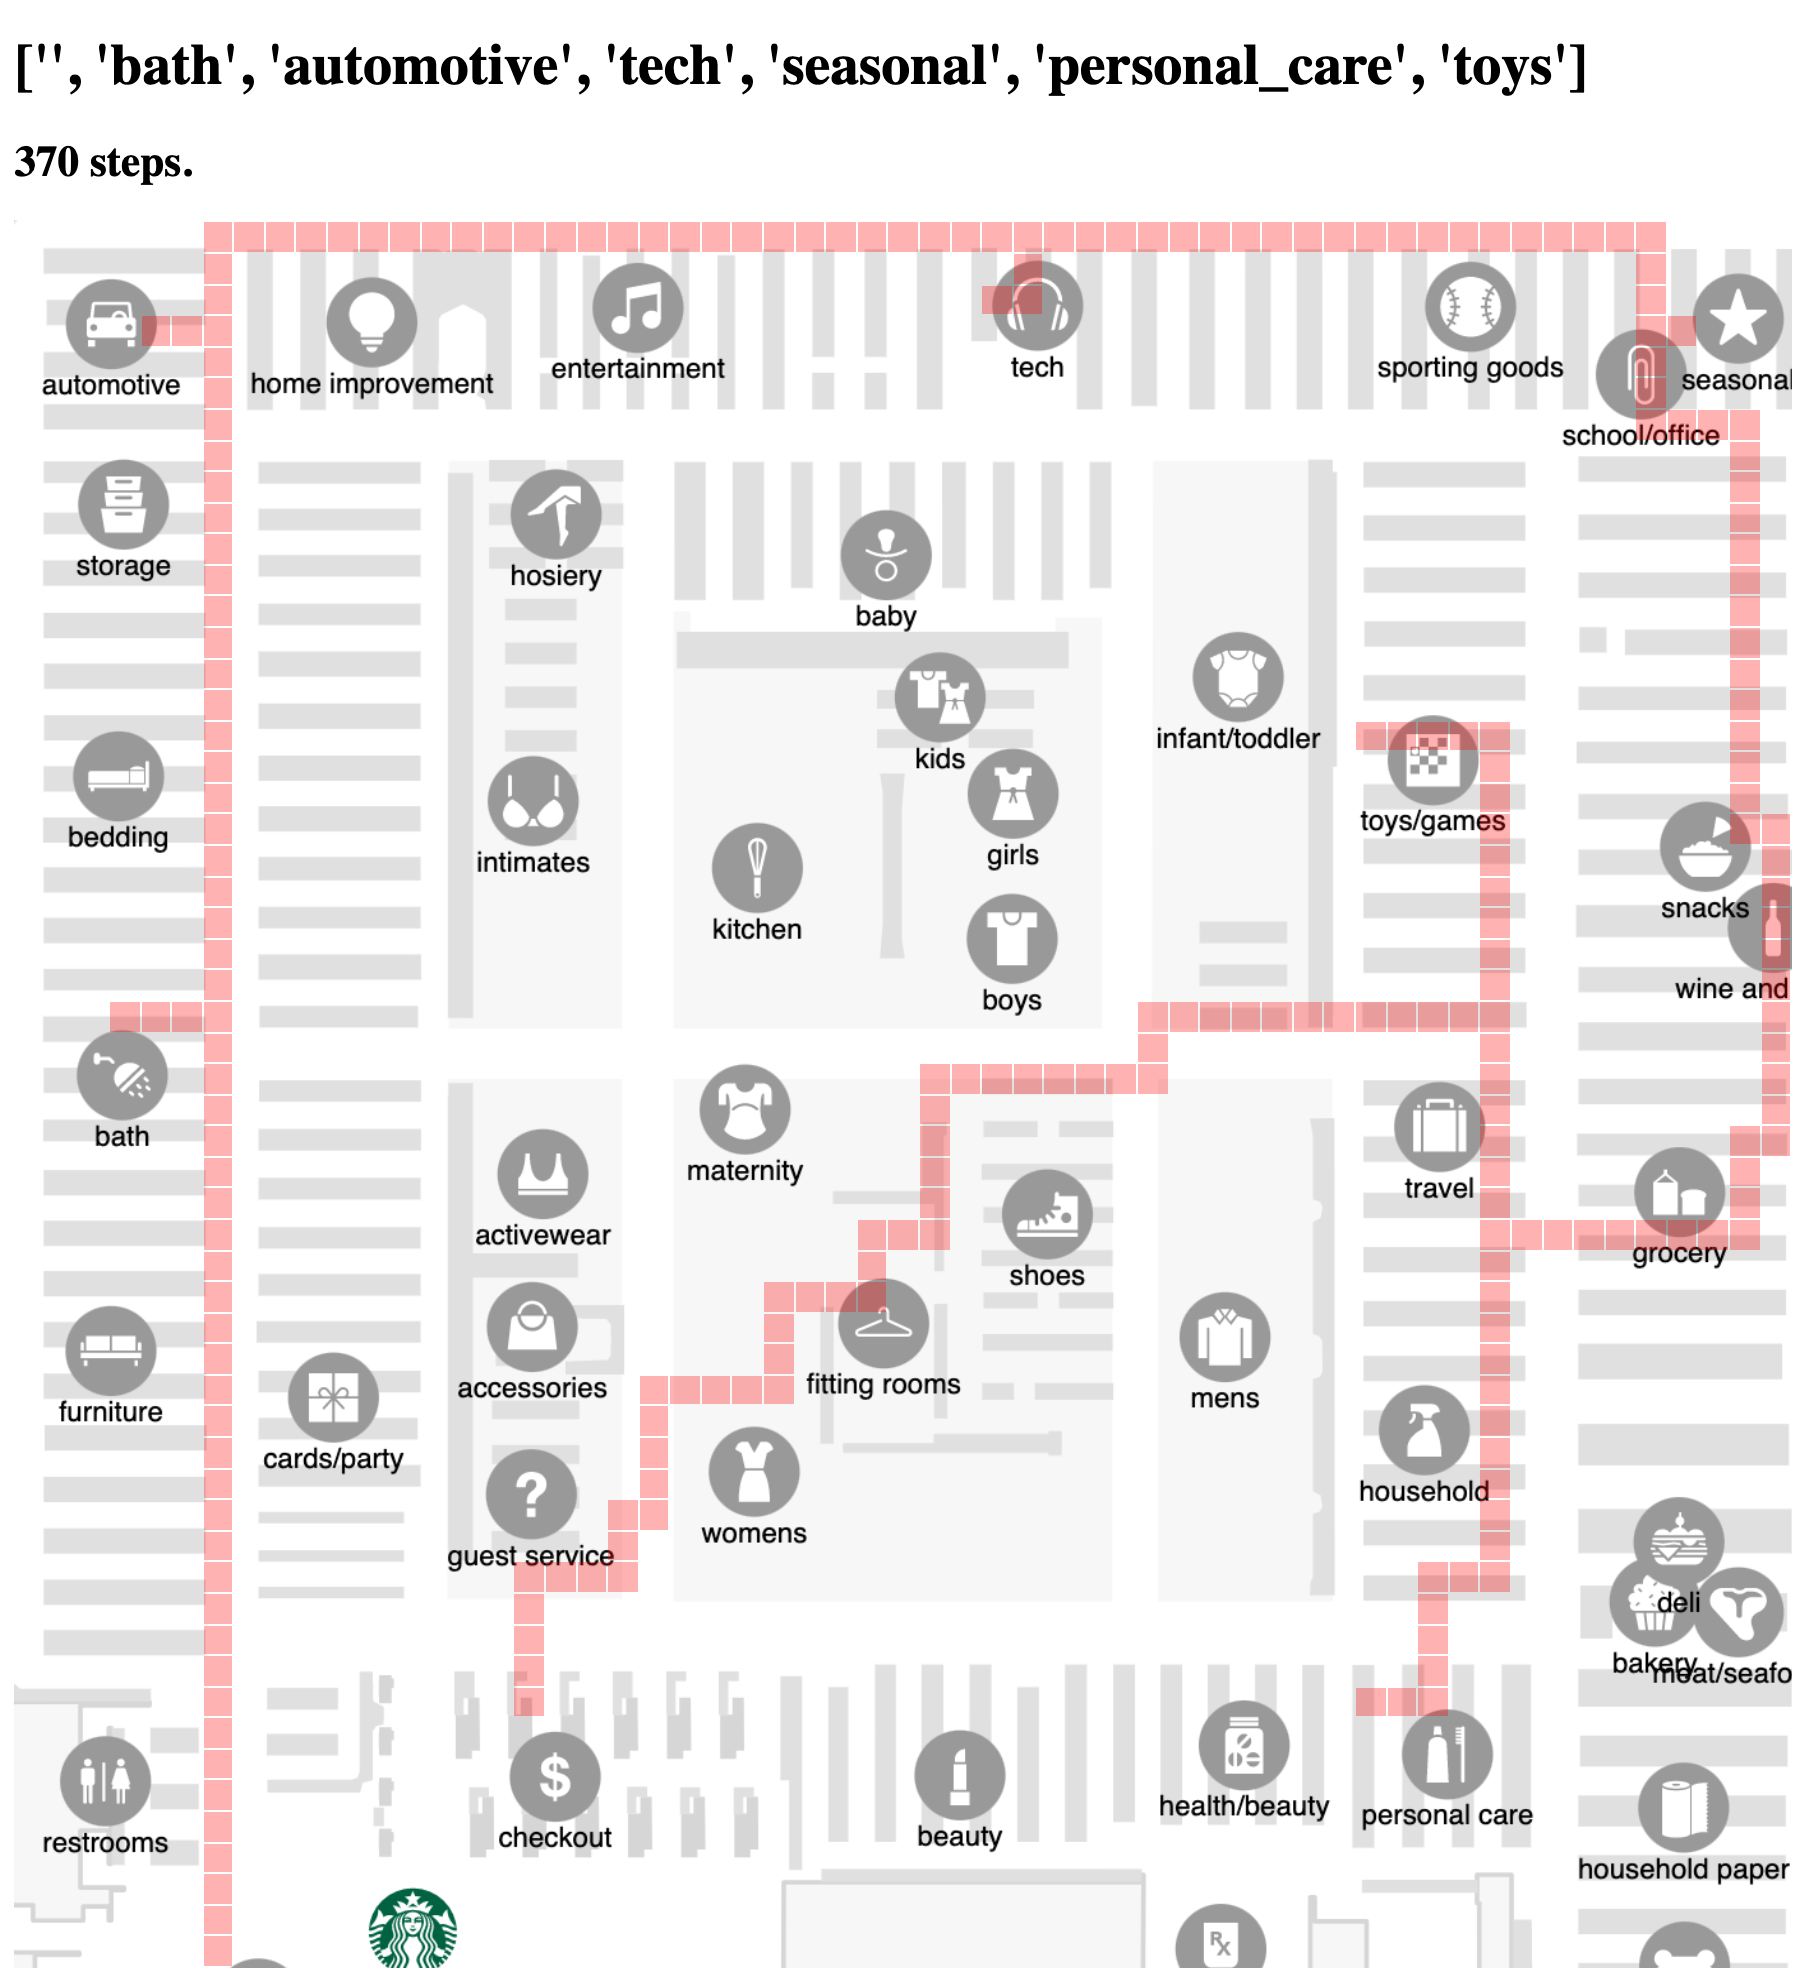
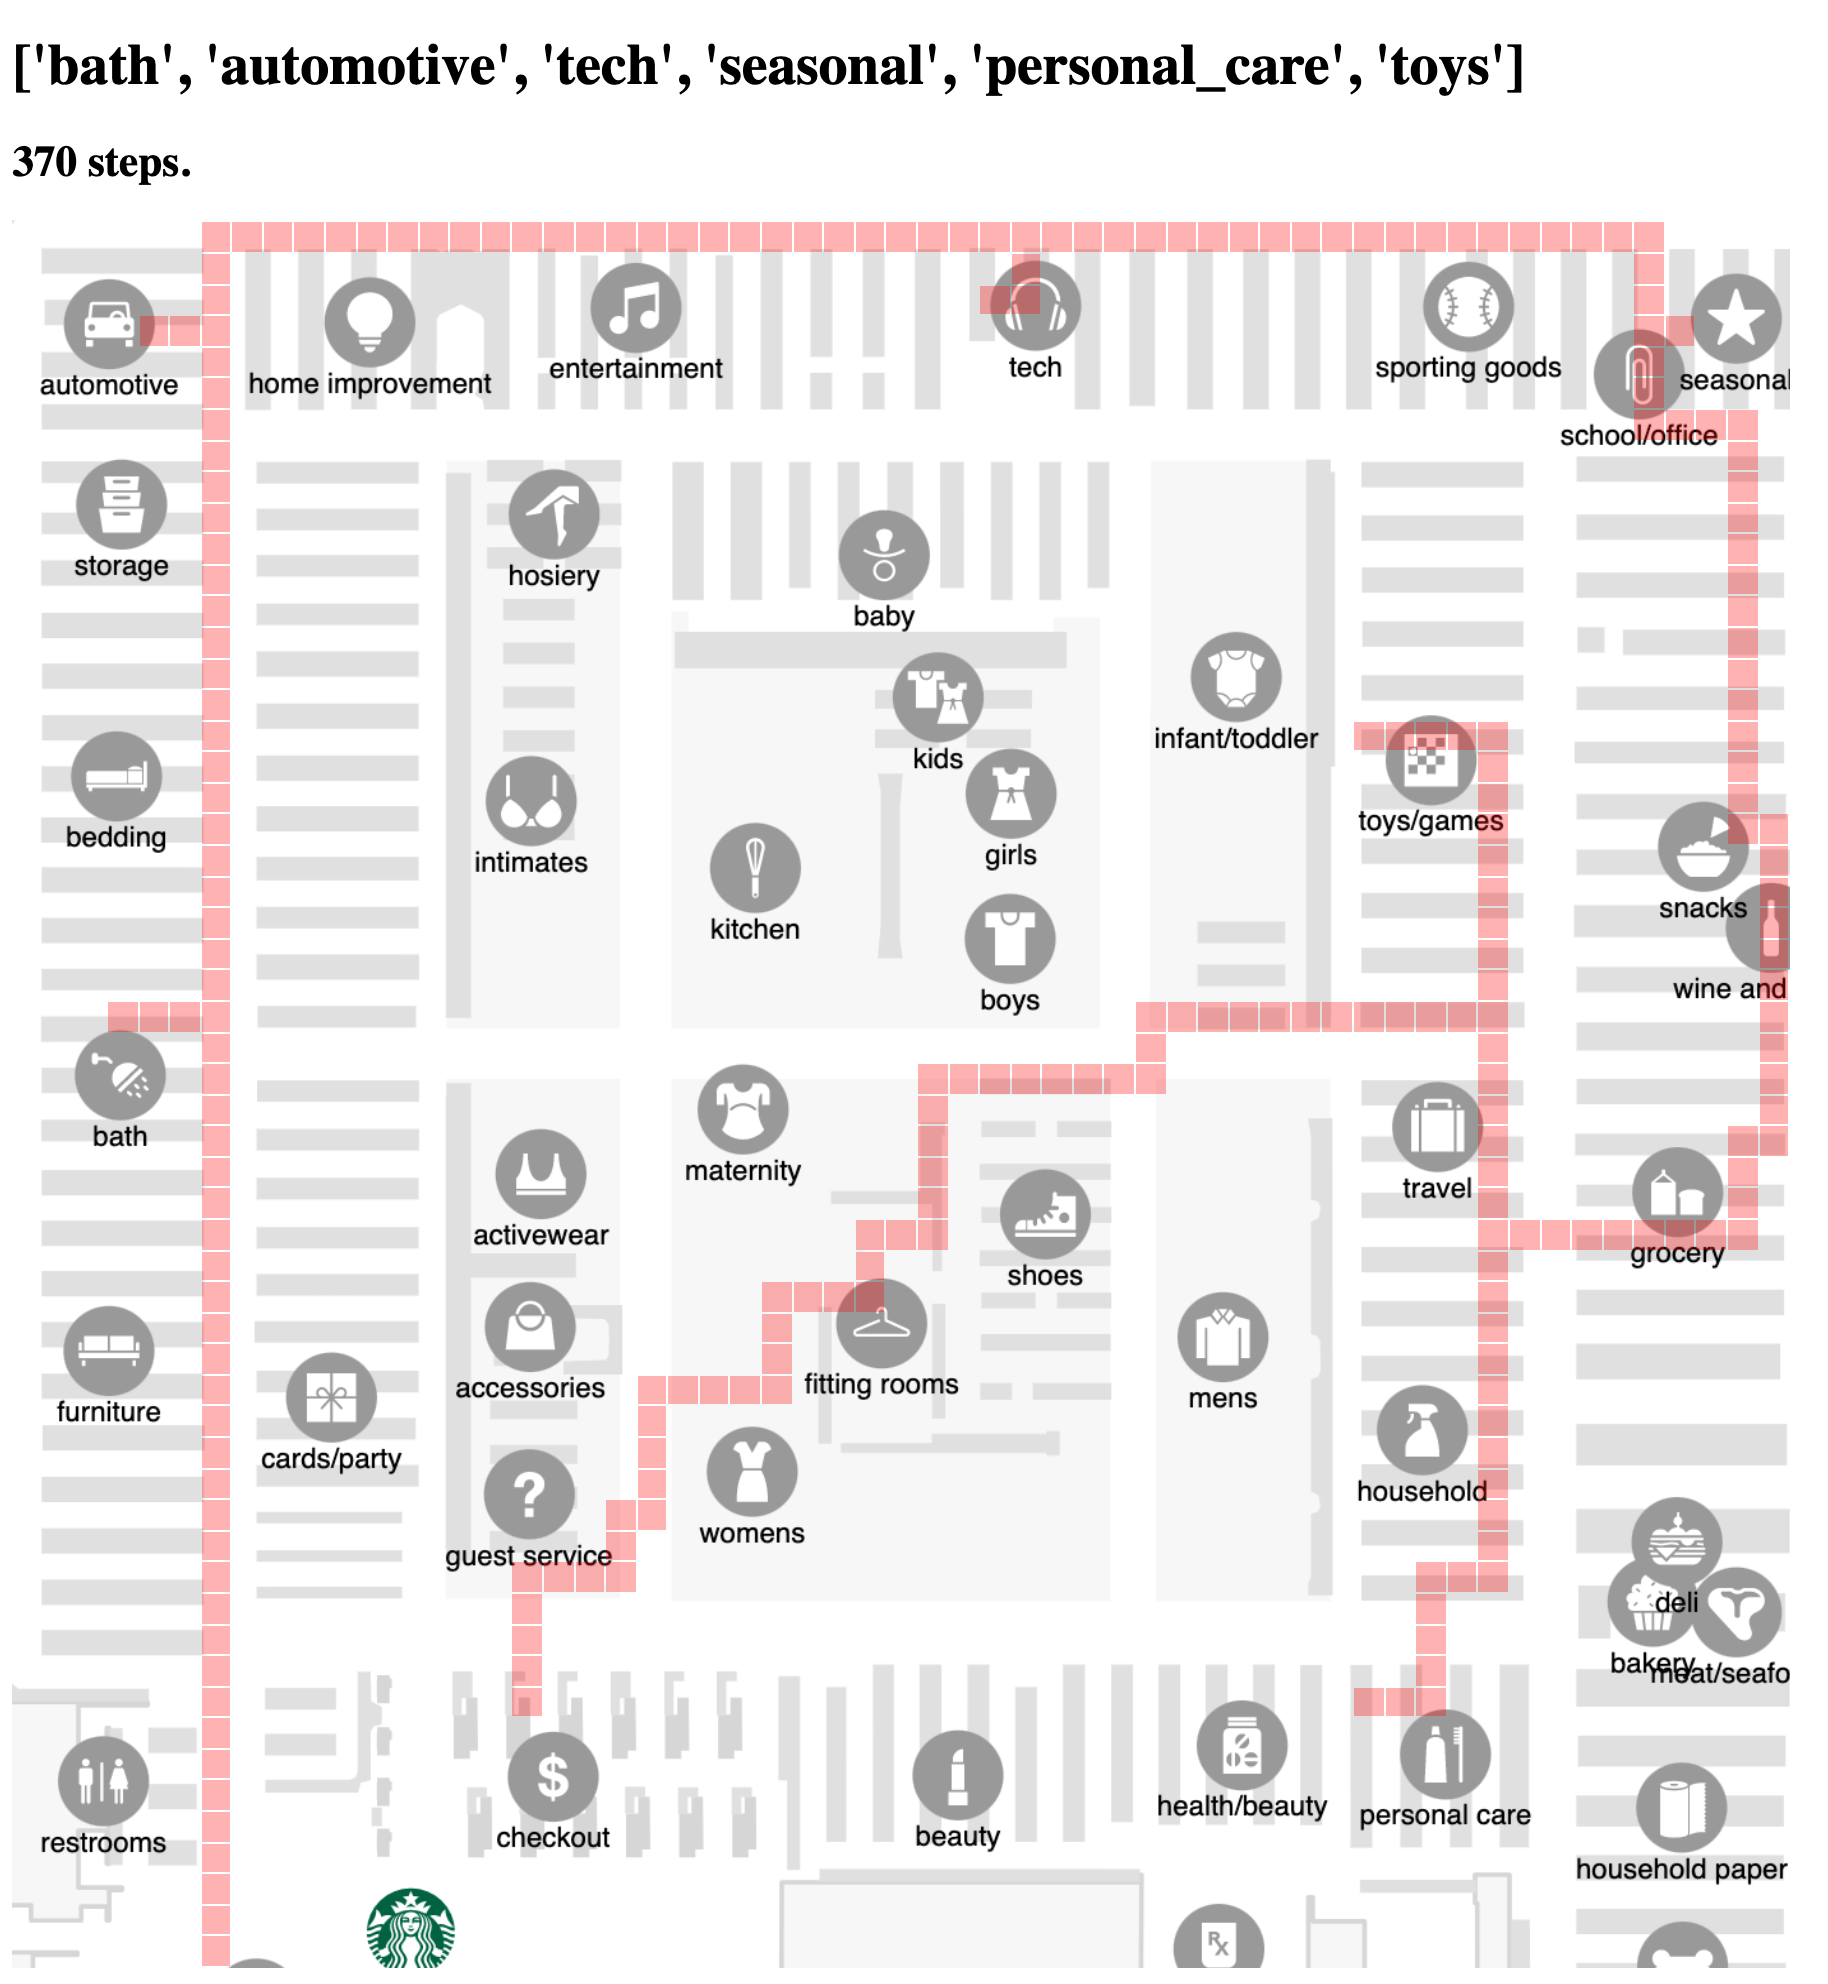
added json markdown

diff --git a/app.py b/app.py
@@ -30,7 +30,7 @@ graph = CheckpointGenerator()
 graph = graph.generate_checkpoints(Listfromfrontend)
 @app.route('/')
 def instore_nav():
-    return render_template("myboard.html",graph=graph[1],path=graph[0].split(' '),steps=graph[2])
+    return render_template("myboard.html",graph=graph[1],path=graph[0].split(' ')[1:],steps=graph[2])
 
 if __name__ == '__main__':
     app.run(debug=True)
